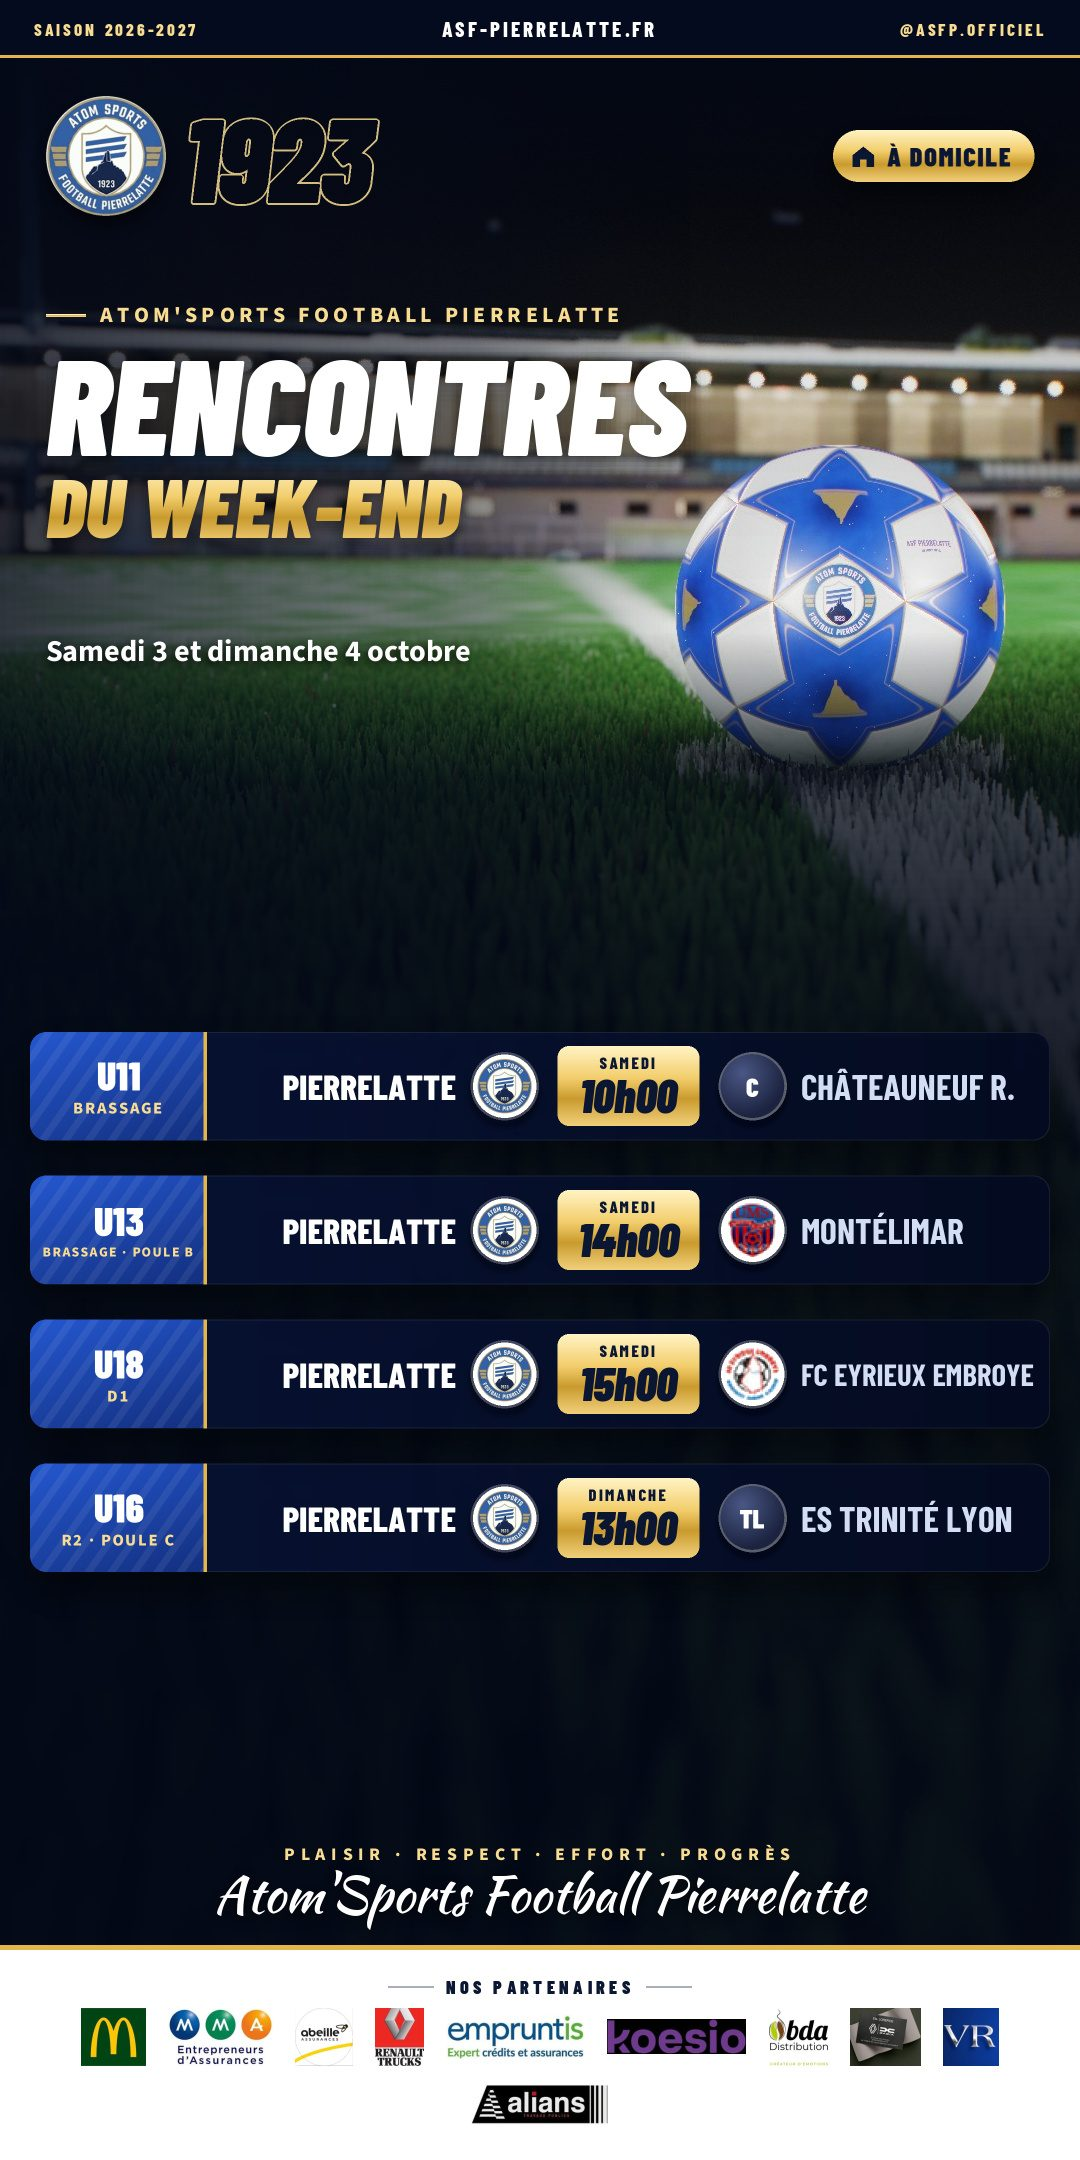
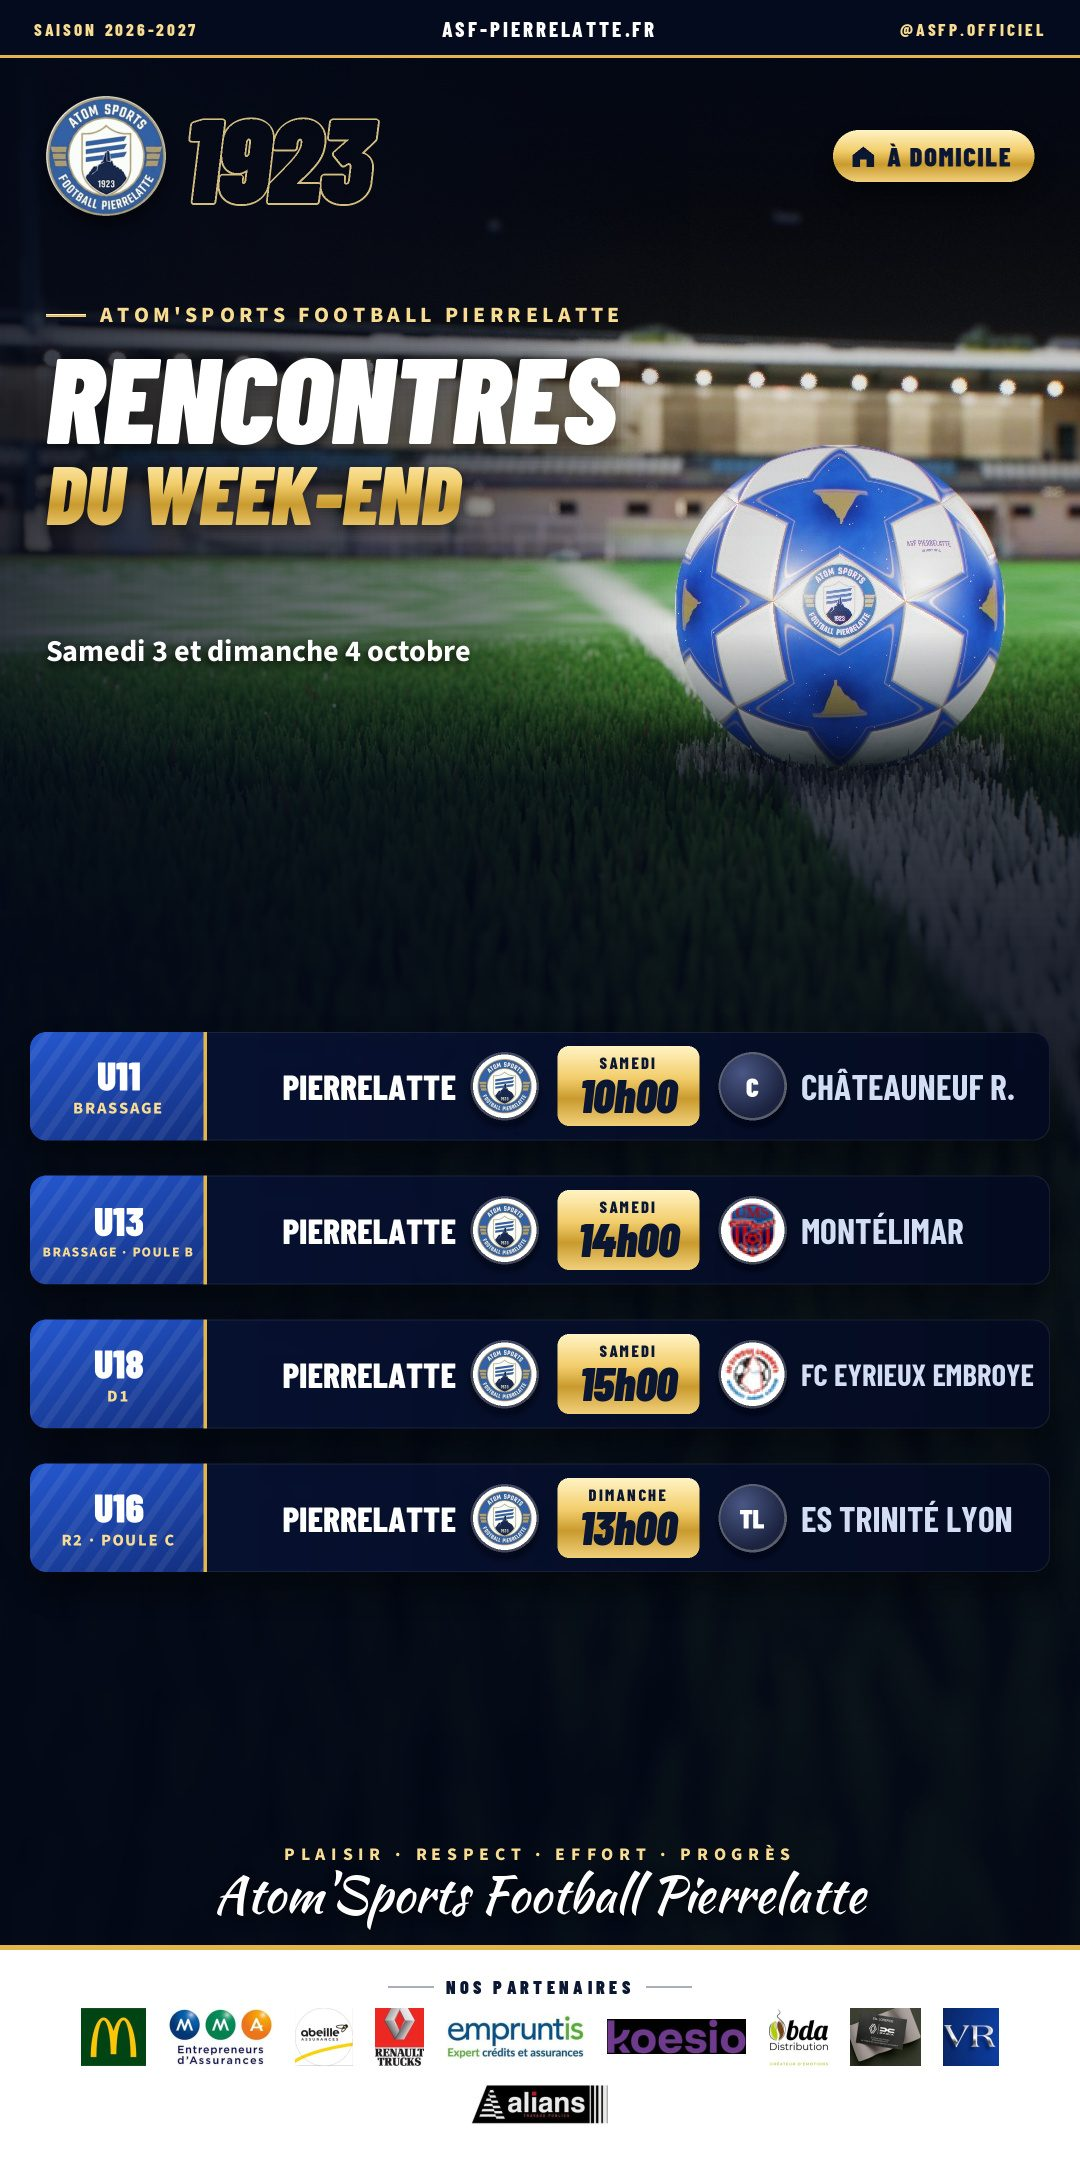
Affiche du stage de la Toussaint 2026, titres arrêtés avant le ballon
- affiches-pretes/ : l'affiche du stage (19 au 23 octobre 2026, 9h-12h et 13h30-16h30,
  repas du midi à apporter) en story, publication Instagram et publication Facebook.
- affiches.php : la largeur des titres s'arrête avant le ballon sur chaque format ;
  aperçus refaits.

Claude-Session: https://claude.ai/code/session_01M1yPrpr41WmvjUwrSriXha

Changed region(s): [[0.0306, 0.1551, 0.6417, 0.2481]]

diff --git a/asf-pierrelatte/serveur/api/affiches.php b/asf-pierrelatte/serveur/api/affiches.php
@@ -2232,7 +2232,8 @@ function afn_devise(array $A): void {
 }
 /* sur-titre, grand titre, sous-titre « métal », date */
 function afn_titres(array $A, string $sur, string $t1, string $t2, string $date, bool $deuxLignes = false): void {
-    $im = $A['im']; $F = $A['F']; $x = 46; $max = 640;
+    $im = $A['im']; $F = $A['F']; $x = 46;
+    [$bx, , $br] = AFN_BALLON[$A['fmt']]; $max = min(640, $bx - $br - $x - 60);   // les titres s'arrêtent avant le ballon
     $fs = $F['t2'] * .26; $y = $F['titre'];
     $sur = aff_maj($sur);
     afn_boite($im, $x, $y + (1.424 * $fs - 3) / 2, 40, 3, 0, ['v', $A['metal']]);
